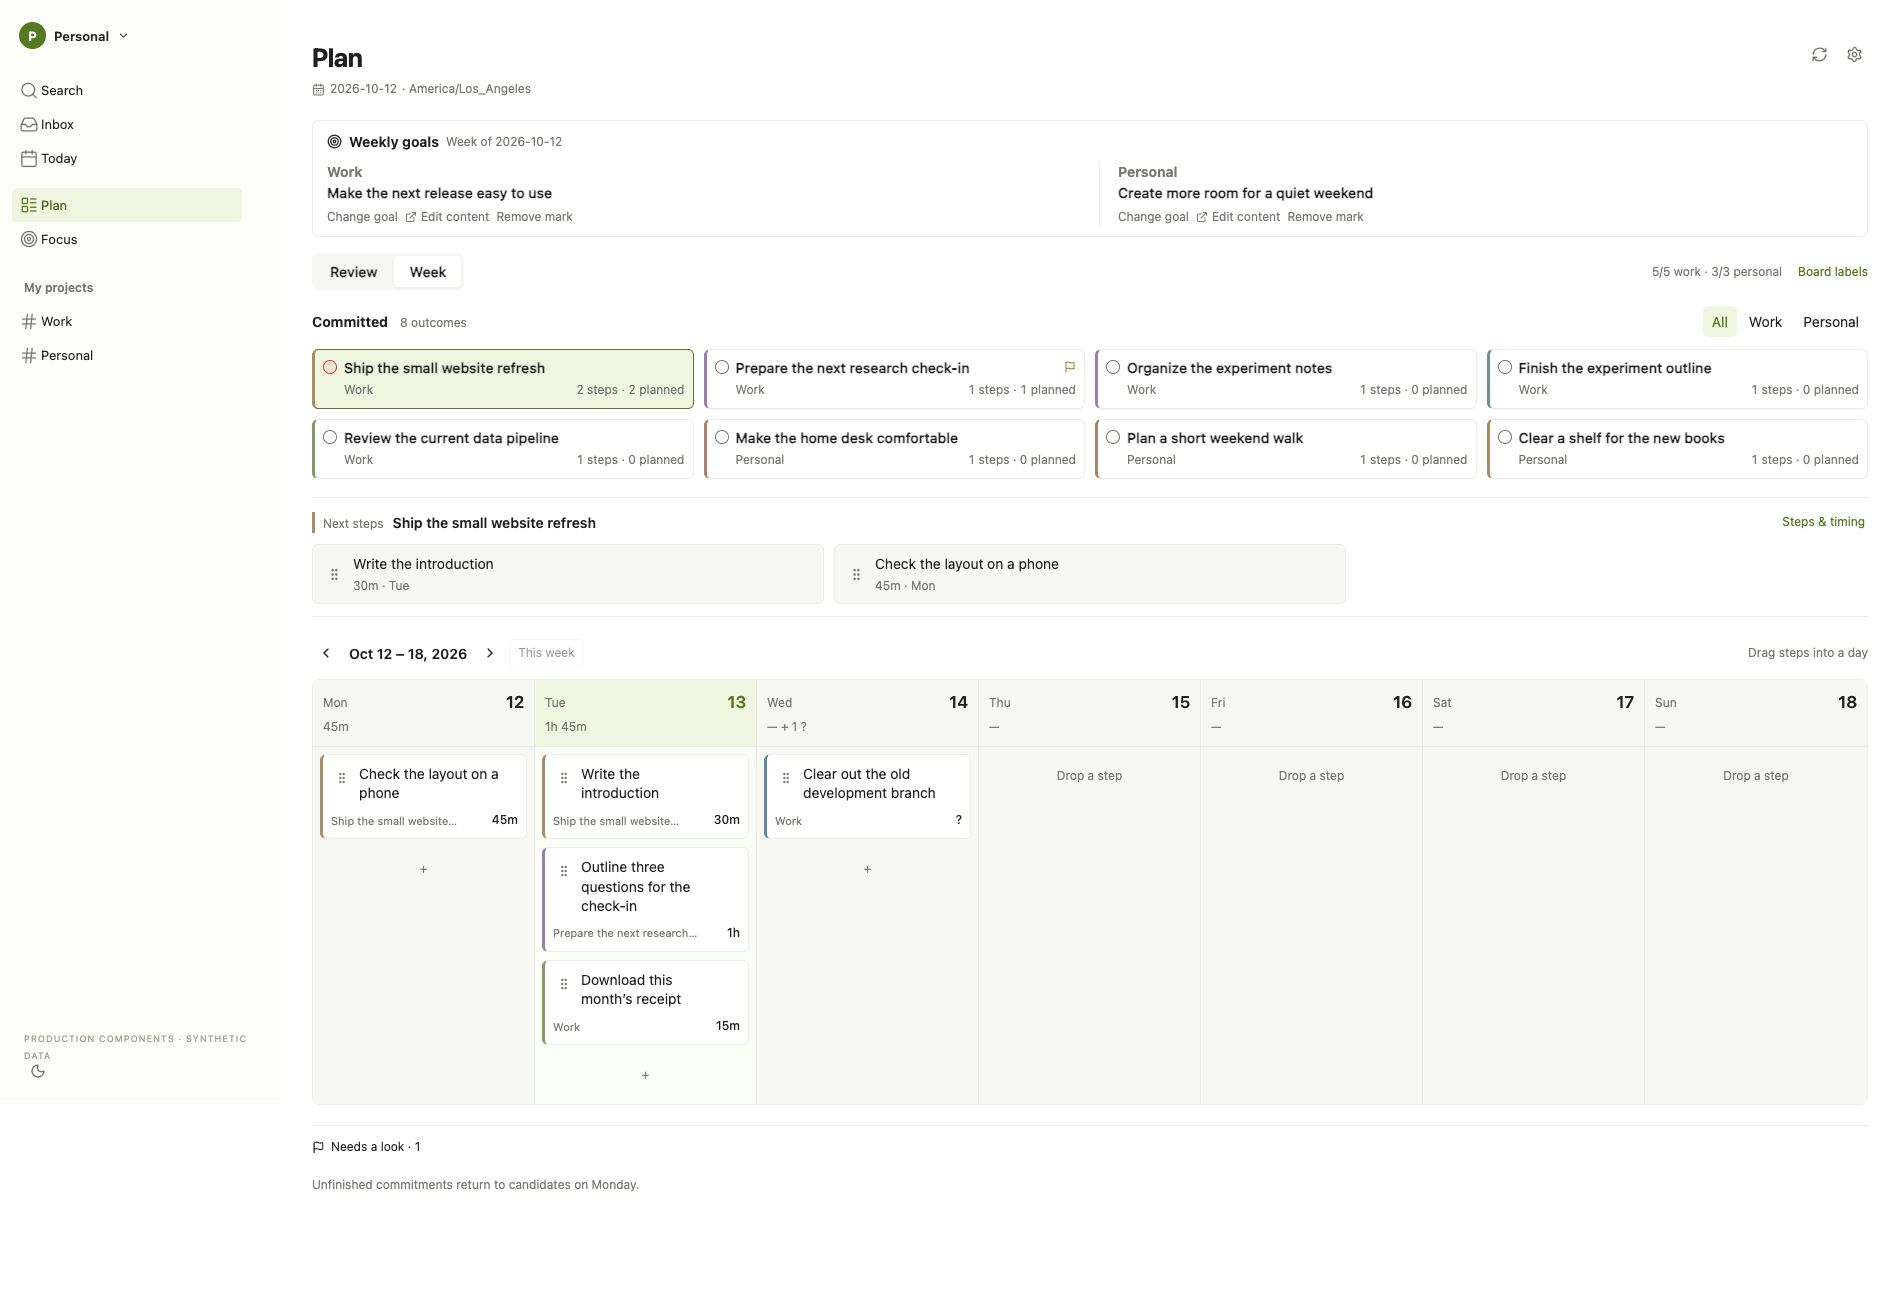
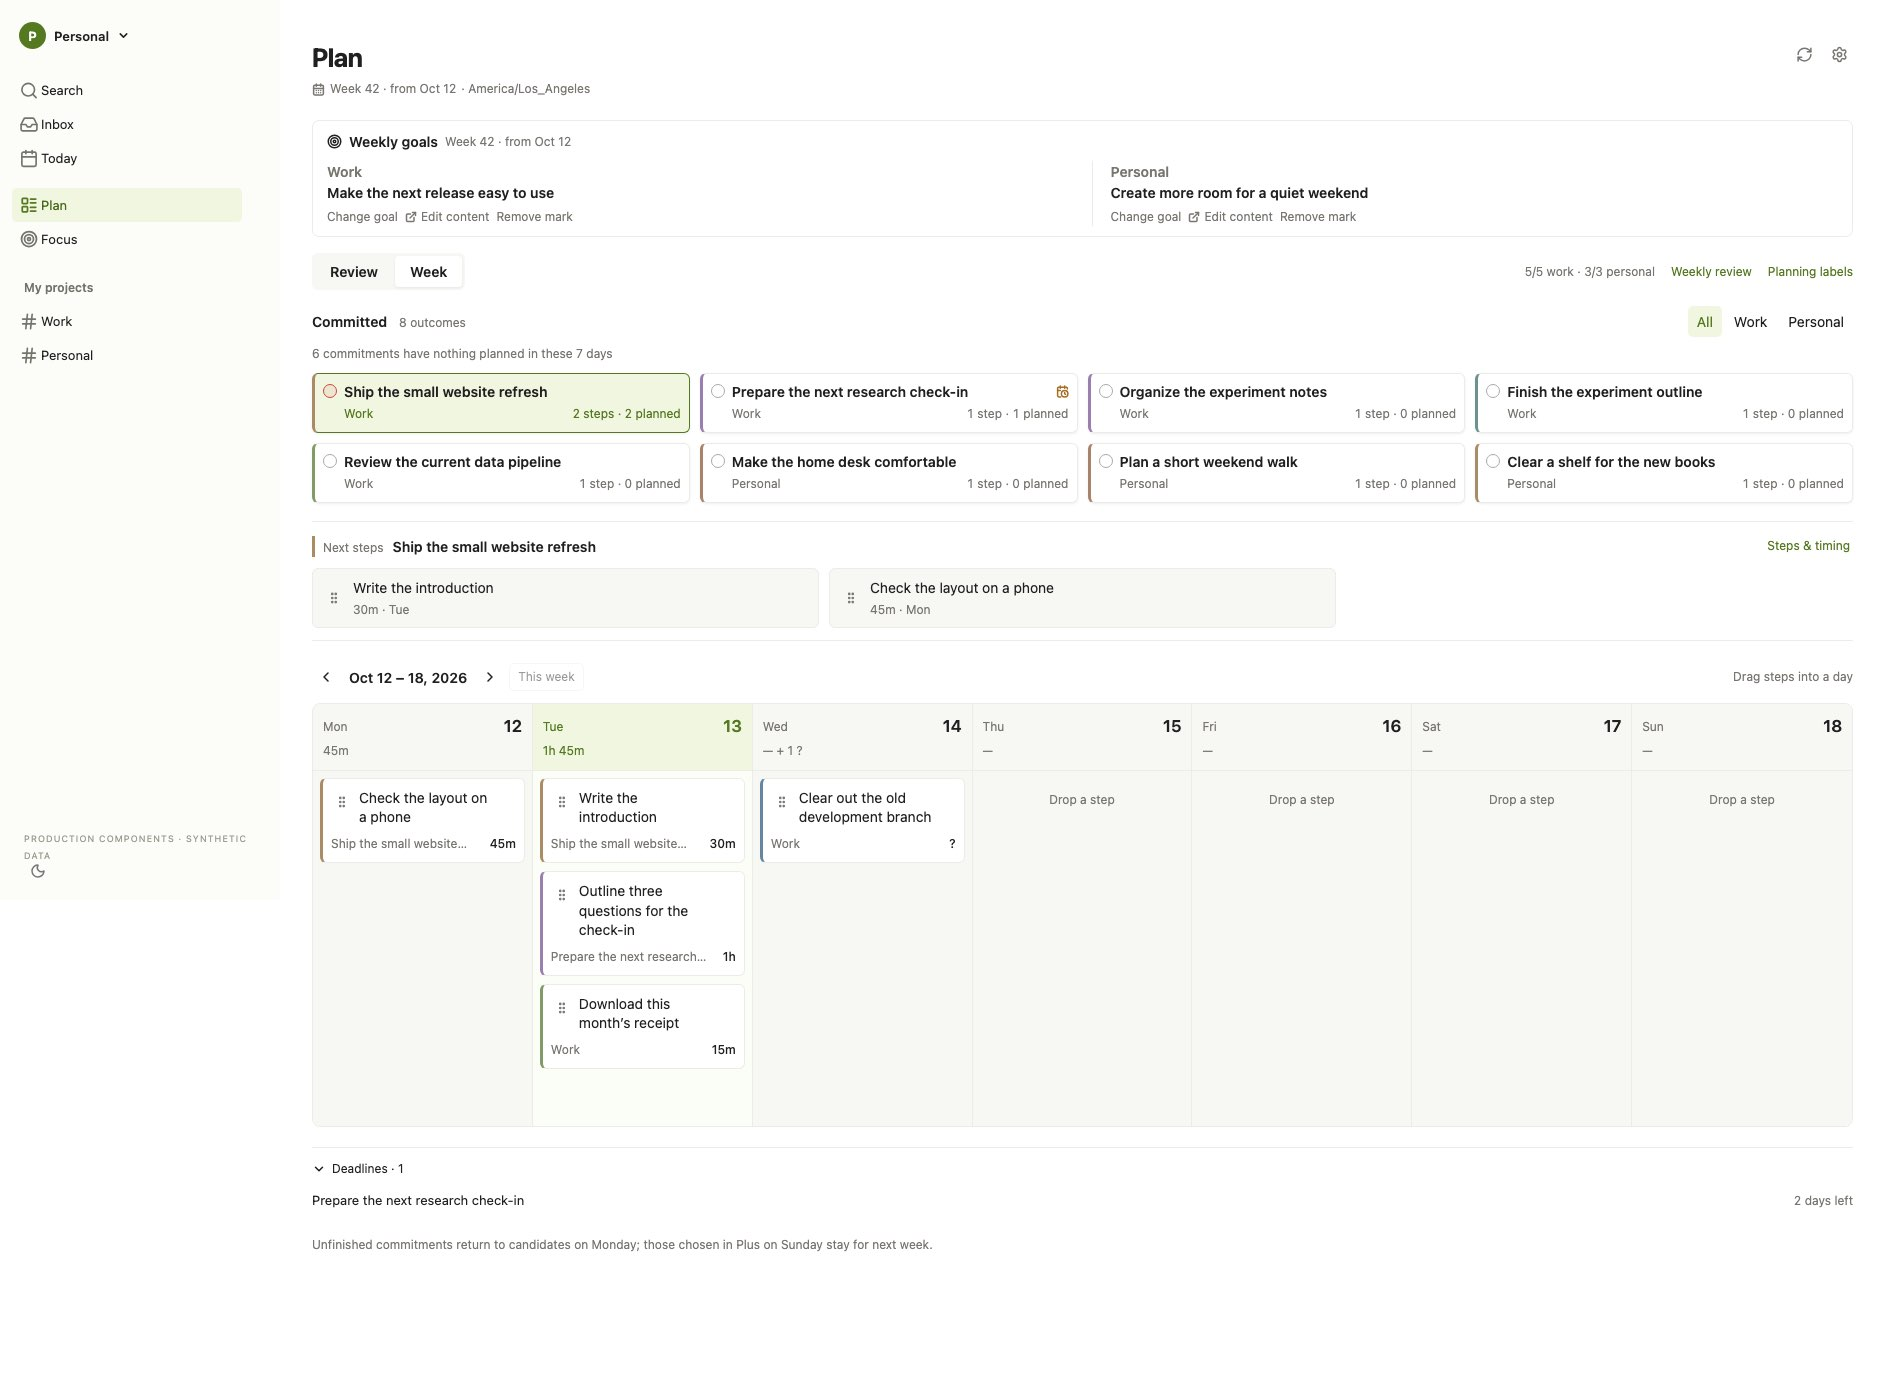
docs(todoist-plus): record the deadlines review fixes and retake stale captures
The four design/production.html captures still showed the removed "Needs a
look" row; the deadlines image is retaken with statuses at the right edge and
without the cut-off line. HANDOFF states the release order and the short
window between the Todofy deploy and the extension reload.

diff --git a/docs/todoist-plus-verification.md b/docs/todoist-plus-verification.md
@@ -590,16 +590,32 @@ label, leaving the other labels, the deadline and a Sunday choice's week in plac
 cases and the calibrated CPU suite pass; gateway source is unchanged. The owner UI's types, 93 tests and build
 pass (176.8 KiB gzip, budget 208 KiB), and the 453 `.github/scripts` cases pass (1 skipped as before).
 
-The extension passes types, lint, Prettier, 158 unit/component/API cases (was 138) and 23 built-MV3 Chromium
+The extension passes types, lint, Prettier, 161 unit/component/API cases (was 138) and 24 built-MV3 Chromium
 cases (was 19). The new Chromium cases: each status at rest with its action at opacity 0, shown on hover and
 reached by Tab from the title; one SetTaskPlan `{active: true}` and no further task read; focus moving to the
-next row's action; Focus's line opening Review with the Deadlines summary focused; rows wrapping under the
-title at 640 px without overflow; Other views kept across reloads; and `--plus-danger` on the background at
-4.5:1 or more in all nine themes. The content script is 384,912 bytes (121,816 with `gzip -9`), against 378,250
-(119,946) before; its CSS 32,938 against 32,424; the background 137,035 against 136,746. Screenshots of the
-built extension on the synthetic page in Kale, Default and Dark (Review and Week at rest and with a row
-hovered, Focus with its line, task details, and narrow Review) were reviewed locally; one is in the
-[interface document](../todoist-plus/docs/planning-interface.md).
+next row's action; marking the last due row by keyboard; Focus's line opening Review with the Deadlines
+summary focused; rows wrapping under the title at 640 px without overflow; Other views kept across reloads;
+and `--plus-danger` on the background at 4.5:1 or more in all nine themes. The content script is 385,225 bytes
+(121,861 with `gzip -9`), against 378,250 (119,946) before; its CSS 33,073 against 32,424; the background
+137,035 against 136,746. Screenshots of the built extension on the synthetic page in Kale, Default and Dark
+(Review and Week at rest and with a row hovered, Focus with its line, task details, and narrow Review and
+details) were reviewed locally; one is in the [interface document](../todoist-plus/docs/planning-interface.md).
+
+Review fixes, the same day. Marking the last due row, in the list or in the editor opened from its title,
+closed the list when the owner had not toggled it, so focus fell to the page and the announcement was inside
+a closed `<details>`. Acting on a row now keeps the list open for the visit, and its `role="status"` sits just
+outside the list. A card whose stage drag is pending keeps its row's "Mark in progress" disabled, as its
+details already were, so the write cannot carry the pre-drag etag. Statuses come last on screen through CSS
+`order` (markup and reading order unchanged), so both lists end at one right edge, at rest and on hover; the
+actions show on `:has(:focus-visible)` instead of `:focus-within`, so a mouse click leaves no action shown.
+Screen readers hear only the part of the date a status lacks ("Deadline Nov 30, Mon"; "，" in Chinese); a
+`@blocked` task past its deadline without a lead reads "2 days past" in the danger colour; in a narrow editor
+"Mark in progress" keeps one line and wraps under the fields. The four `design/production.html` captures in
+the interface document still showed "Needs a look" and were retaken. Each new case was checked to fail on the
+previous code: the list staying open (unit and Chromium), the pending card, the right edge and the mouse
+reveal. Kept as they were, with reasons in the interface document: the empty third line of a Waiting row at
+about 350 px of content (the owner's hover rule), the app-wide ASCII colon in accessible names, and the
+details sentence, which describes dates and the in-progress label only.
 
 Not verified: the live Todoist page and data (including that the owner's filters normalize to exactly these
 queries and that the account has an `active` label), real Todoist's overdue colour in the owner's theme, the

diff --git a/HANDOFF.md b/HANDOFF.md
@@ -17,11 +17,15 @@ progress (the literal `active` label, never created), and Todofy also hides Wait
 Blocked and Active Deadlines behind a consistency test. Row actions show on hover or keyboard focus only (owner
 decision); `--plus-danger` now reads Todoist's overdue colour, because the attention tint misses 4.5:1 as text.
 Other views remembers open or closed. Dependencies, native row marks and `@blocked` mirroring are not built.
-Local proto, Todofy (host, 559 runtime, gateway with CPU), owner UI, scripts and extension (158 unit, 23 MV3
-Chromium) checks pass ([evidence](docs/todoist-plus-verification.md#deadlines-version-1-local-checks-october-16)).
-Pending: push, full branch CI, owner review and same-SHA release; Todofy must ship with or before the extension
-(the hidden filters and `active` both live there). After release, confirm the account has an `active` label
-and the three filters disappear only from the extension's sidebar; reload the extension and refresh Todoist.
+Review fixes are in: Deadlines stays open once a row is acted on, statuses end at the right edge, a pending
+card's mark waits for its drag. Local proto, Todofy (host, 559 runtime, gateway with CPU), owner UI, scripts and
+extension (161 unit, 24 MV3 Chromium) checks pass
+([evidence](docs/todoist-plus-verification.md#deadlines-version-1-local-checks-october-16)).
+Pending: push, full branch CI, owner review and one same-SHA release. Deploy Todofy first, since `active` needs
+it, then reload the extension straight away, before using Todoist: until the reload, the installed extension
+already hides the three filters but has no in-progress list, so `@active` tasks with a deadline show in no list
+for those minutes (the order is forced by `active`). Then refresh Todoist and confirm the account has an
+`active` label and the three filters disappear only from the extension's sidebar.
 
 Todoist Plus UI theme, safety and polish (owner-approved October 15: safety C1-C6, theming A1-A6, polish
 B1-B6) is on local branch `claude/plus-ui-theme`, based on `58908f64`; not pushed, no branch CI or release.
